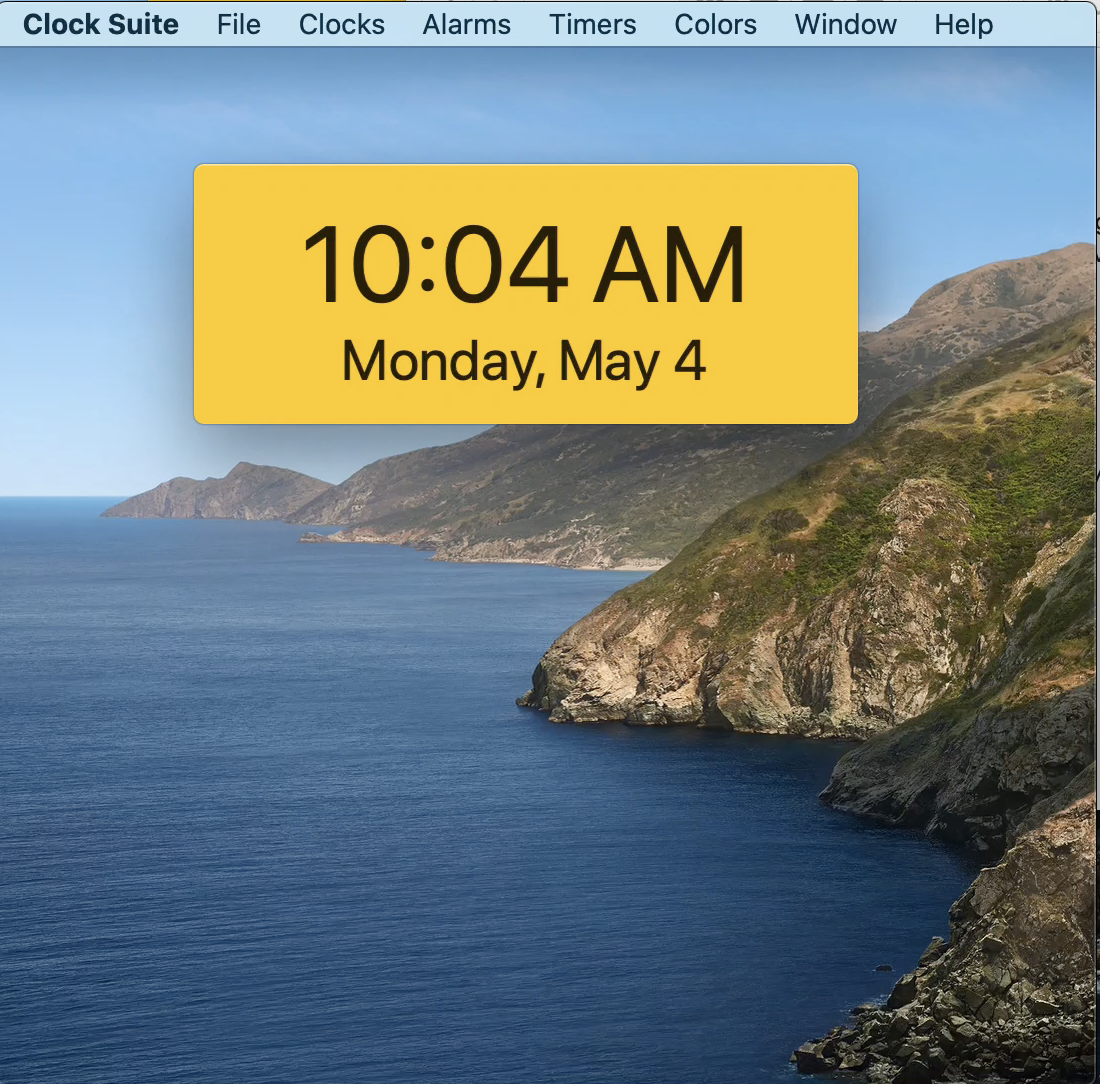
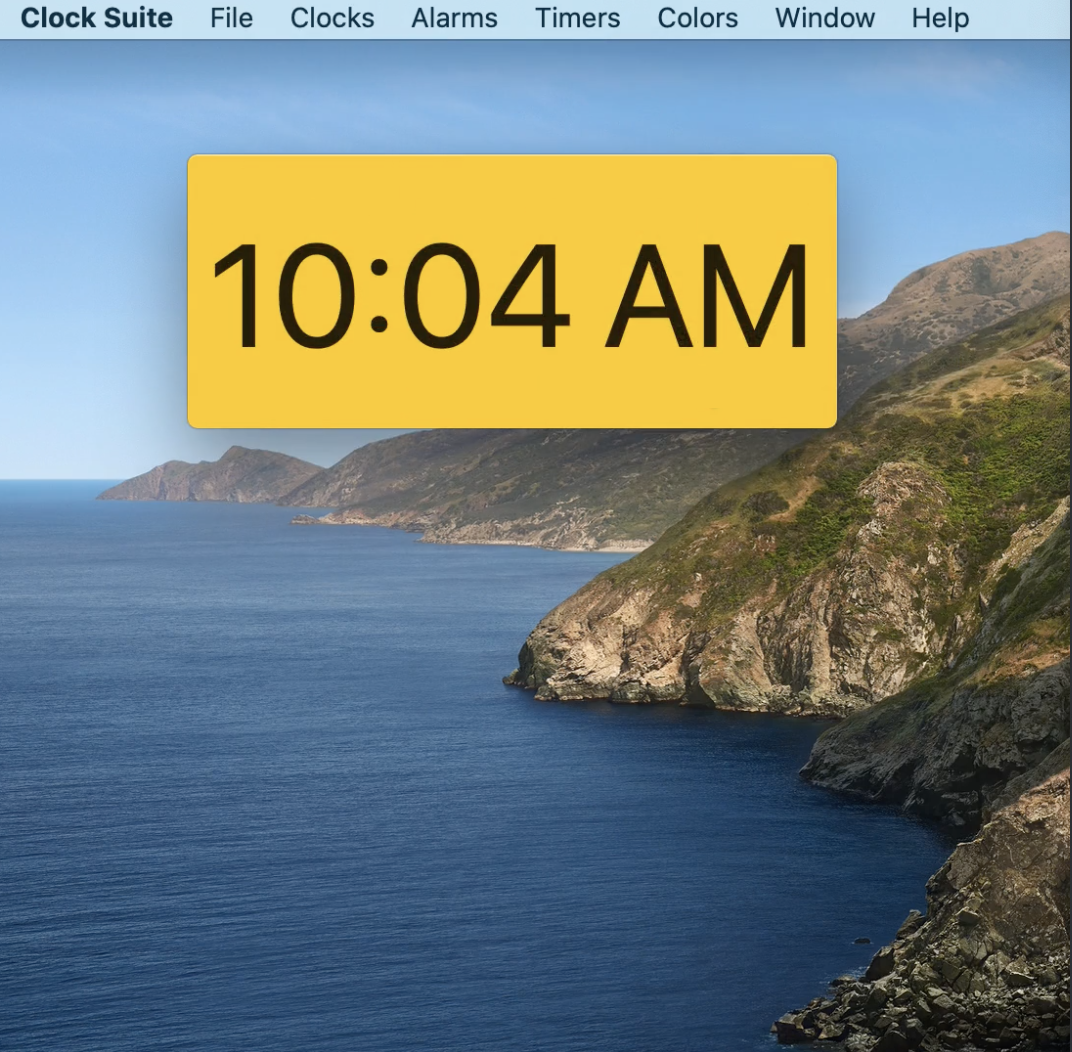
Changed first clock to analog clock, second clock to no date and day of week, and got better image of dock clock

diff --git a/src/pages/HomePage.js b/src/pages/HomePage.js
@@ -3,7 +3,7 @@ import React from 'react';
 import { useSelector } from 'react-redux';
 
 import ClockAnalogSecondsVideo from "../resources/ClockAnalogSeconds.mp4";
-import ClockAnalogSecondsImage from "../resources/ClockAnalogSeconds.png";
+import AnalogClockImage from "../resources/AnalogClock.png";
 import ClockShowHideDateVideo from "../resources/ClockShowHideDate.mp4";
 import ClockShowHideDateImage from "../resources/ClockShowHideDate.png";
 
@@ -51,7 +51,7 @@ const Home = () => {
     const colorClass = useSelector(state => state.misc.colorClass)
     return (<div><div className={'main-background main-' + colorClass}><div className="main-margin">
         <br></br>
-        <h1 className="text-align-center">
+        <h1 className="text-align-center title">
             Clock Suite
         </h1>
         <img src={GreenClockImage} alt="Green Clock Suite"></img>
@@ -76,7 +76,7 @@ const Home = () => {
         <h3 className="text-align-center">
             —Can be digital or analog.
         </h3>
-        <video controls poster={ClockAnalogSecondsImage}>
+        <video controls poster={AnalogClockImage}>
             <source src={ClockAnalogSecondsVideo} type="video/mp4"/>
             Your browser does not support the video tag.
         </video>

diff --git a/src/styles/App.css b/src/styles/App.css
@@ -39,6 +39,11 @@ img {
   width: 640px;
   height: auto;
 }
+
+.title {
+  font-size: 50px;
+  font-weight: 600;
+}
 .copyright{
   font-weight: 600;
 }
